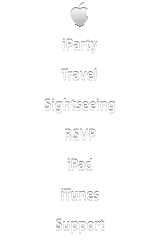
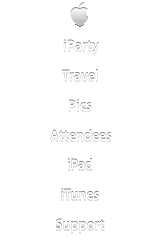
Attendees and Pics pages

diff --git a/ja/sightseeing.html b/ja/sightseeing.html
@@ -2,7 +2,7 @@
 layout: default
 body_id: sightseeing
 body_class: lang_ja
-title: - Sightseeing
+title: '- Sightseeing'
 ---
 
 <div id="content">
@@ -11,7 +11,7 @@ title: - Sightseeing
   <!--
     sl.se
     http://www.alltomstockholm.se/
-  
+
   <aside>
     <h4>Tipping</h4>
     <p>
@@ -30,10 +30,10 @@ title: - Sightseeing
       Sweden has very high taxes, with a general consumption tax at 25%. For certain items, like groceries and books it can be lower, at 12% and 6%. Alcohol and tobacco is generally expensive becuase of even higher consumption tax on them. So if you plan on making big purchases, make sure you get a tax-free receipt.
     </p>
   </aside>
-  
+
   <section>
     <h3>Getting around</h3>
-    
+
     <h4>SL</h4>
     <p>
       Stockholm has excellent public transport with buses, subway, trains and trams. They are all provided by the state, use the same payment system and tickets are valid on all forms of transport. You purchase tickets in advance, either a one-trip ticket, multiple journey ticket or a multi-day pass. Your ticket is valid for any transport up to an hour after the time stamped on the ticket by the ticket attendant. Cash is not accepted on buses, trains or trams so make sure that you purchase your ticket beforehand.
@@ -46,7 +46,7 @@ title: - Sightseeing
     <p>
       Next to walking this is by far the most beautiful way to see Stockholm. The city is bike friendly and many people do their commute on a bike. There is a network of bikes for hire in the inner city.
     </p>
-    
+
     <h4>Taxi</h4>
     <p>
       Taxis are generally expensive in Stockholm, but as long as you travel in central Stockholm you should be able to keep under 200 SKR. There are far fewer cabs in Stockholm compared to cities like Tokyo or New York. Look for black and or yellow cars. Most cabs accept credit card.
@@ -73,7 +73,7 @@ title: - Sightseeing
 
   <section>
     <h3>Food</h3>
-    
+
     <h4>Swedish Food</h4>
     <p>
       Sweden might be best known for rubbery IKEA meatballs but we have a lot more to offer. Fish and seafood is a big part of cousine along the coast. You will be able to have excellent codfish and shrimp in addition to smoked salmon and <em>gravad</em> salmon (gravlochs). Late August is also the start of crayfish season and Swedish people throw big crayfish parties and drink nearly as much <em>brännvin</em> as at midsummer’s. Swedes are also fond of pickled herring, <em>sill</em>. There is also a fermented variety called <em>surströmming</em> that is said to be on of the stinkiest foods on the planet.
@@ -101,7 +101,7 @@ title: - Sightseeing
     </p>
     <div>Google map</div>
   </section>
-  
+
   <section>
     <h3>Language</h3>
 

diff --git a/sightseeing.html b/sightseeing.html
@@ -1,7 +1,7 @@
 ---
 layout: default
 body_id: sightseeing
-title: - Sightseeing
+title: '- Sightseeing'
 ---
 
 <div id="content">
@@ -10,7 +10,7 @@ title: - Sightseeing
   <!--
     sl.se
     http://www.alltomstockholm.se/
-  
+
   <aside>
     <h4>Tipping</h4>
     <p>
@@ -29,10 +29,10 @@ title: - Sightseeing
       Sweden has very high taxes, with a general consumption tax at 25%. For certain items, like groceries and books it can be lower, at 12% and 6%. Alcohol and tobacco is generally expensive becuase of even higher consumption tax on them. So if you plan on making big purchases, make sure you get a tax-free receipt.
     </p>
   </aside>
-  
+
   <section>
     <h3>Getting around</h3>
-    
+
     <h4>SL</h4>
     <p>
       Stockholm has excellent public transport with buses, subway, trains and trams. They are all provided by the state, use the same payment system and tickets are valid on all forms of transport. You purchase tickets in advance, either a one-trip ticket, multiple journey ticket or a multi-day pass. Your ticket is valid for any transport up to an hour after the time stamped on the ticket by the ticket attendant. Cash is not accepted on buses, trains or trams so make sure that you purchase your ticket beforehand.
@@ -45,7 +45,7 @@ title: - Sightseeing
     <p>
       Next to walking this is by far the most beautiful way to see Stockholm. The city is bike friendly and many people do their commute on a bike. There is a network of bikes for hire in the inner city.
     </p>
-    
+
     <h4>Taxi</h4>
     <p>
       Taxis are generally expensive in Stockholm, but as long as you travel in central Stockholm you should be able to keep under 200 SKR. There are far fewer cabs in Stockholm compared to cities like Tokyo or New York. Look for black and or yellow cars. Most cabs accept credit card.
@@ -72,7 +72,7 @@ title: - Sightseeing
 
   <section>
     <h3>Food</h3>
-    
+
     <h4>Swedish Food</h4>
     <p>
       Sweden might be best known for rubbery IKEA meatballs but we have a lot more to offer. Fish and seafood is a big part of cousine along the coast. You will be able to have excellent codfish and shrimp in addition to smoked salmon and <em>gravad</em> salmon (gravlochs). Late August is also the start of crayfish season and Swedish people throw big crayfish parties and drink nearly as much <em>brännvin</em> as at midsummer’s. Swedes are also fond of pickled herring, <em>sill</em>. There is also a fermented variety called <em>surströmming</em> that is said to be on of the stinkiest foods on the planet.
@@ -100,7 +100,7 @@ title: - Sightseeing
     </p>
     <div>Google map</div>
   </section>
-  
+
   <section>
     <h3>Language</h3>
 

diff --git a/travel.html b/travel.html
@@ -1,7 +1,7 @@
 ---
 layout: default
 body_id: travel
-title: - Travel
+title: '- Travel'
 ---
 
 <div id="content">
@@ -65,7 +65,7 @@ title: - Travel
       <p id="hotel-blurb">
         Here are a few of the hotels and booking sites we recommend. We will gladly help you find a good hotel to stay at. Just ping us and we’ll spring into action. If you need any help to book, or to find somewhere else to stay, please let us know and we’ll help out.
       </p>
-      
+
       <h4>Hotels</h4>
       <dl>
         <dt class="hotelj"><a href="http://eng.hotelj.com/">Hotel J</a> ☆☆☆☆</dt>
@@ -191,7 +191,7 @@ title: - Travel
     var centralen = {lat: 59.330958, lng: 18.056851};
     var viking = {lat: 59.315973, lng: 18.097115};
     var silja = {lat: 59.350376, lng: 18.106944};
-      
+
     travelMap = new GMaps({div: '#travel_map', lat: travel_center.lat, lng: travel_center.lng, zoom: 9});
     travelMap.addMarker({
       lat: arlanda.lat, lng: arlanda.lng, title: 'Arlanda', icon: 'assets/marker-airport.png', infoWindow: {content: 'Arlanda airport'}});
@@ -214,7 +214,7 @@ title: - Travel
     var radmannen = {lat: 59.339273, lng: 18.0548};
     var bakfickan = {lat: 59.339127, lng: 18.054215};
     var rival = {lat: 59.318165, lng: 18.063631};
-      
+
     hotelMap = new GMaps({div: '#hotel_map', lat: hotel_center.lat, lng: hotel_center.lng, zoom: 12});
     hotelMap.addMarker({
       lat: hotelj.lat, lng: hotelj.lng, title: 'Hotel J', icon: 'assets/marker-villa.png', infoWindow: {content: 'Hotel J'}});

diff --git a/ja/travel.html b/ja/travel.html
@@ -1,7 +1,7 @@
 ---
 layout: default
 body_id: travel
-title: - Travel
+title: '- Travel'
 body_class: lang_ja
 ---
 
@@ -56,7 +56,7 @@ body_class: lang_ja
       <p id="hotel-blurb">
         Kim と Miwa がオススメするホテルや予約サイトをいくつかご紹介します。一声かけてもらえれば宿探しのお手伝いもするので、お気軽にお知らせください！
       </p>
-      
+
       <h4>ホテル</h4>
       <dl>
         <dt class="hotelj"><a href="http://eng.hotelj.com/">Hotel J</a> ☆☆☆☆</dt>
@@ -183,7 +183,7 @@ body_class: lang_ja
     var centralen = {lat: 59.330958, lng: 18.056851};
     var viking = {lat: 59.315973, lng: 18.097115};
     var silja = {lat: 59.350376, lng: 18.106944};
-      
+
     travelMap = new GMaps({div: '#travel_map', lat: travel_center.lat, lng: travel_center.lng, zoom: 9});
     travelMap.addMarker({
       lat: arlanda.lat, lng: arlanda.lng, title: 'Arlanda', icon: '/assets/marker-airport.png', infoWindow: {content: 'Arlanda airport'}});
@@ -206,7 +206,7 @@ body_class: lang_ja
     var radmannen = {lat: 59.339273, lng: 18.0548};
     var bakfickan = {lat: 59.339127, lng: 18.054215};
     var rival = {lat: 59.318165, lng: 18.063631};
-      
+
     hotelMap = new GMaps({div: '#hotel_map', lat: hotel_center.lat, lng: hotel_center.lng, zoom: 12});
     hotelMap.addMarker({
       lat: hotelj.lat, lng: hotelj.lng, title: 'Hotel J', icon: '/assets/marker-villa.png', infoWindow: {content: 'Hotel J'}});

diff --git a/_includes/head.html b/_includes/head.html
@@ -40,15 +40,15 @@
       {% if page.body_class contains 'lang_ja' %}
         <li id="gn-apple"><a href="/ja/"><span>KiMiwa</span></a></li>
         <li id="gn-store"><a href="/ja/iparty"><span>iParty</span></a></li>
-        <li id="gn-iphone"><a href="/ja/rsvp"><span>RSVP</span></a></li>
+        <li id="gn-iphone"><a href="/ja/attendees"><span>Attendees</span></a></li>
         <li id="gn-mac"><a href="/ja/travel"><span>トラベル</span></a></li>
-        <li id="gn-ipod"><a href="/ja/sightseeing"><span>Sightseeing</span></a></li>
+        <li id="gn-ipod"><a href="/ja/pics"><span>写真</span></a></li>
       {% else %}
         <li id="gn-apple"><a href="/index"><span>KiMiwa</span></a></li>
         <li id="gn-store"><a href="/iparty"><span>iParty</span></a></li>
-        <li id="gn-iphone"><a href="/rsvp"><span>RSVP</span></a></li>
+        <li id="gn-iphone"><a href="/attendees"><span>Attendees</span></a></li>
         <li id="gn-mac"><a href="/travel"><span>Travel</span></a></li>
-        <li id="gn-ipod"><a href="/sightseeing"><span>Sightseeing</span></a></li>
+        <li id="gn-ipod"><a href="/pics"><span>Pics</span></a></li>
       {% endif %}
     </ul>
   </nav>

diff --git a/assets/main.css b/assets/main.css
@@ -164,4 +164,14 @@ article { margin: 0; padding: 0; background: white; }
 #travel #booking-sites li.first { margin-left: 0; }
 #travel .map { width: 980px; height: 300px; margin: 0 20px 45px -20px; padding: 0; }
 
+/* Attendees */
+#attendees { background: #F2F2F2 url(square_pattern.jpg) repeat 0px 0px; }
+#attendees article { border-radius: 4px; -webkit-box-shadow: rgba(0, 0, 0, 0.296875) 0px 1px 3px; background: white; padding-bottom: 50px; }
+#thankyou { text-align: center; font-size: 3em; font-weight: bold; padding-top: 2em; }
 
+/* Pics */
+#pics { background: #F2F2F2 url(body_bg20110224.png) repeat-x 0px 0px; }
+#pics article { border-radius: 4px; -webkit-box-shadow: rgba(0, 0, 0, 0.296875) 0px 1px 3px; background: white; }
+#pics section { margin: 0; padding: 10px 20px; clear: both; }
+#pics section.staying { padding-top: 2em; }
+#pics section.divider-down { background: url(section_divider_down.png) no-repeat; }

diff --git a/ja/rsvp.html b/ja/rsvp.html
@@ -2,7 +2,7 @@
 layout: default
 body_id: rsvp
 body_class: lang_ja
-title: - RSVP
+title: '- RSVP'
 ---
 
 <div id="content">
@@ -48,7 +48,7 @@ title: - RSVP
     </p>
   </form>
 </article>
-  
+
 <script>
   $(function(){
     Parse.initialize("FMznVXCMwnXGYbxioZymeOs8tjv9h2FyBH12FDRS", "muFe8YEYPKFGqFXMCoG131hbIytyHqe511RhAsr8");

diff --git a/rsvp.html b/rsvp.html
@@ -1,7 +1,7 @@
 ---
 layout: default
 body_id: rsvp
-title: - RSVP
+title: '- RSVP'
 ---
 
 <div id="content">
@@ -47,7 +47,7 @@ title: - RSVP
     </p>
   </form>
 </article>
-  
+
 <script>
   $(function(){
     Parse.initialize("FMznVXCMwnXGYbxioZymeOs8tjv9h2FyBH12FDRS", "muFe8YEYPKFGqFXMCoG131hbIytyHqe511RhAsr8");

diff --git a/ja/pics.html b/ja/pics.html
@@ -1,0 +1,16 @@
+---
+layout: default
+body_id: pics
+title: '- 写真'
+body_class: lang_ja
+---
+<div id="content">
+<h2>写真</h2>
+
+<article>
+  <section>
+    <a href="http://s1231.photobucket.com/user/miwa505/story/4309">Photobucketの写真タイムライン</a>
+  </section>
+</article>
+</div>
+

diff --git a/pics.html b/pics.html
@@ -1,0 +1,15 @@
+---
+layout: default
+body_id: pics
+title: '- Pics'
+---
+<div id="content">
+<h2>Pics</h2>
+
+<article>
+  <section>
+    <a href="http://s1231.photobucket.com/user/miwa505/story/4309">Photobucket picture timeline</a>
+  </section>
+</article>
+</div>
+

diff --git a/ja/attendees.html b/ja/attendees.html
@@ -1,0 +1,14 @@
+---
+layout: default
+body_id: attendees
+title: '- 参加者'
+body_class: lang_ja
+---
+<div id="content">
+<h2>参加者</h2>
+
+<article>
+  <h3 id="thankyou">ありがとう！</h3>
+</article>
+</div>
+

diff --git a/attendees.html b/attendees.html
@@ -1,0 +1,13 @@
+---
+layout: default
+body_id: attendees
+title: '- Attendees'
+---
+<div id="content">
+<h2>Attendees</h2>
+
+<article>
+  <h3 id="thankyou">Thank you!</h3>
+</article>
+</div>
+
